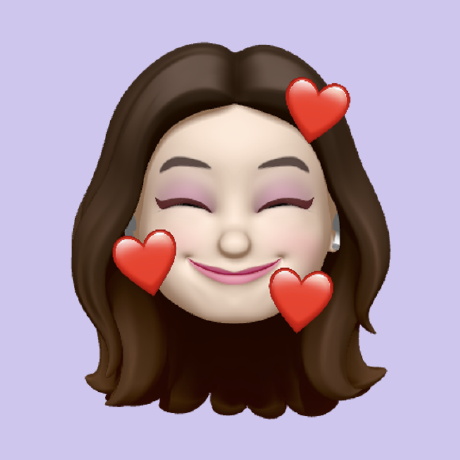
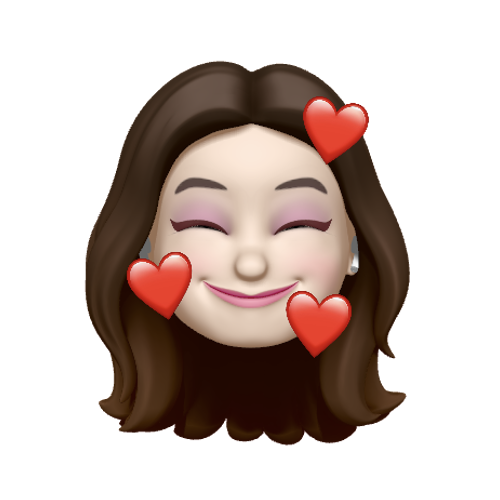
feat: about 이미지 배경 수정

diff --git a/portfolio/src/App.jsx b/portfolio/src/App.jsx
@@ -19,84 +19,13 @@ const App = () => {
 
     return(
         <>
-        <div 
-           data-aos="slide-up"
-           data-aos-offset="100"
-           data-aos-delay="10"
-           data-aos-duration="500"
-           data-aos-mirror="true"
-           data-aos-once="false"
-           data-aos-anchor-placement="top-center"
-        >
             <Header/>
-        </div>
-
-        <div 
-           data-aos="fade-up"
-           data-aos-offset="100"
-           data-aos-delay="10"
-           data-aos-duration="500"
-           data-aos-easing="ease-in-out"
-           data-aos-mirror="true"
-           data-aos-once="false"
-           data-aos-anchor-placement="top-center"
-        >
             <About />
-        </div>
-
-        <div 
-           data-aos="slide-left"
-           data-aos-offset="200"
-           data-aos-delay="10"
-           data-aos-duration="1000"
-           data-aos-easing="ease-in-out"
-           data-aos-mirror="true"
-           data-aos-once="false"
-           data-aos-anchor-placement="top-center"
-        >
             <Awards />
-        </div>
-
-        <div 
-           data-aos="fade-up"
-           data-aos-offset="200"
-           data-aos-delay="10"
-           data-aos-duration="500"
-           data-aos-easing="ease-in-out"
-           data-aos-mirror="true"
-           data-aos-once="false"
-           data-aos-anchor-placement="top-center"
-        >
             <Experience />
-        </div>
-
-        <div 
-           data-aos="fade-up"
-           data-aos-offset="200"
-           data-aos-delay="10"
-           data-aos-duration="500"
-           data-aos-easing="ease-in-out"
-           data-aos-mirror="true"
-           data-aos-once="false"
-           data-aos-anchor-placement="top-center"
-        >
             <Portfolio />
-        </div>
-
-        <div 
-           data-aos="fade-up"
-           data-aos-offset="200"
-           data-aos-delay="0"
-           data-aos-duration="500"
-           data-aos-easing="ease-in-out"
-           data-aos-mirror="true"
-           data-aos-once="false"
-           data-aos-anchor-placement="top-center"
-        >
             <Activity />
-        </div>
-
-        <Footer />
+            <Footer />
         </>
     )
 }

diff --git a/portfolio/src/components/about/About.jsx b/portfolio/src/components/about/About.jsx
@@ -1,6 +1,5 @@
 import React from 'react'
 import './about.css'
-import ME from '../../assets/me.png'
 import ME_BG from '../../assets/me_background.png'
 import { FaAward, FaSchool } from 'react-icons/fa'
 import { AiFillMail } from 'react-icons/ai'
@@ -27,7 +26,7 @@ const About = () => {
                     <div clasName="about__cards">
                         <article className="about__card">
                             <BsFillChatFill className='about__icon'/>
-                            <h5>카카오브레인 (Kakaobrain)</h5>
+                            <h5>카카오브레인 ( kakaobrain )</h5>
                             <small>8월 입사 예정</small>
                         </article>
 

diff --git a/portfolio/src/components/portfolio/Portfolio.jsx b/portfolio/src/components/portfolio/Portfolio.jsx
@@ -28,7 +28,9 @@ const Portfolio = () => {
                                 <img src={image} alt=""/>
                             </div>
 
+                            <div className="portfolio__item-title">
                                 <h3>{title}</h3>
+                            </div>
                             
                             <div className="portfolio__item-cta">
                                 <a href={summary==="" ? null : summary} className={summary==="" ? "btn btn-inactive" : "btn"} target='_blank'>Summary</a>

diff --git a/portfolio/src/components/portfolio/portfolio.css b/portfolio/src/components/portfolio/portfolio.css
@@ -28,8 +28,11 @@
     height: 100%
 }
 
-.portfolio__item h3 {
-    margin: 1.2rem 0 0.5rem;
+.portfolio__item-title {
+    height: 5vh;
+    margin: 1.2rem 0 1rem;
+    justify-content: center;
+    align-items: center;
 }
 
 .portfolio__icon {

diff --git a/portfolio/src/components/about/about.css b/portfolio/src/components/about/about.css
@@ -17,7 +17,7 @@
     background: linear-gradient(
         45deg,
         transparent,
-        white,
+        var(--color-primary),
         transparent
     );
     display: grid;

diff --git a/portfolio/src/index.css b/portfolio/src/index.css
@@ -59,7 +59,7 @@ h1 {
 }
 
 section {
-    margin-top: 8rem;
+    margin-top: 16rem;
 }
 
 section > h2,
